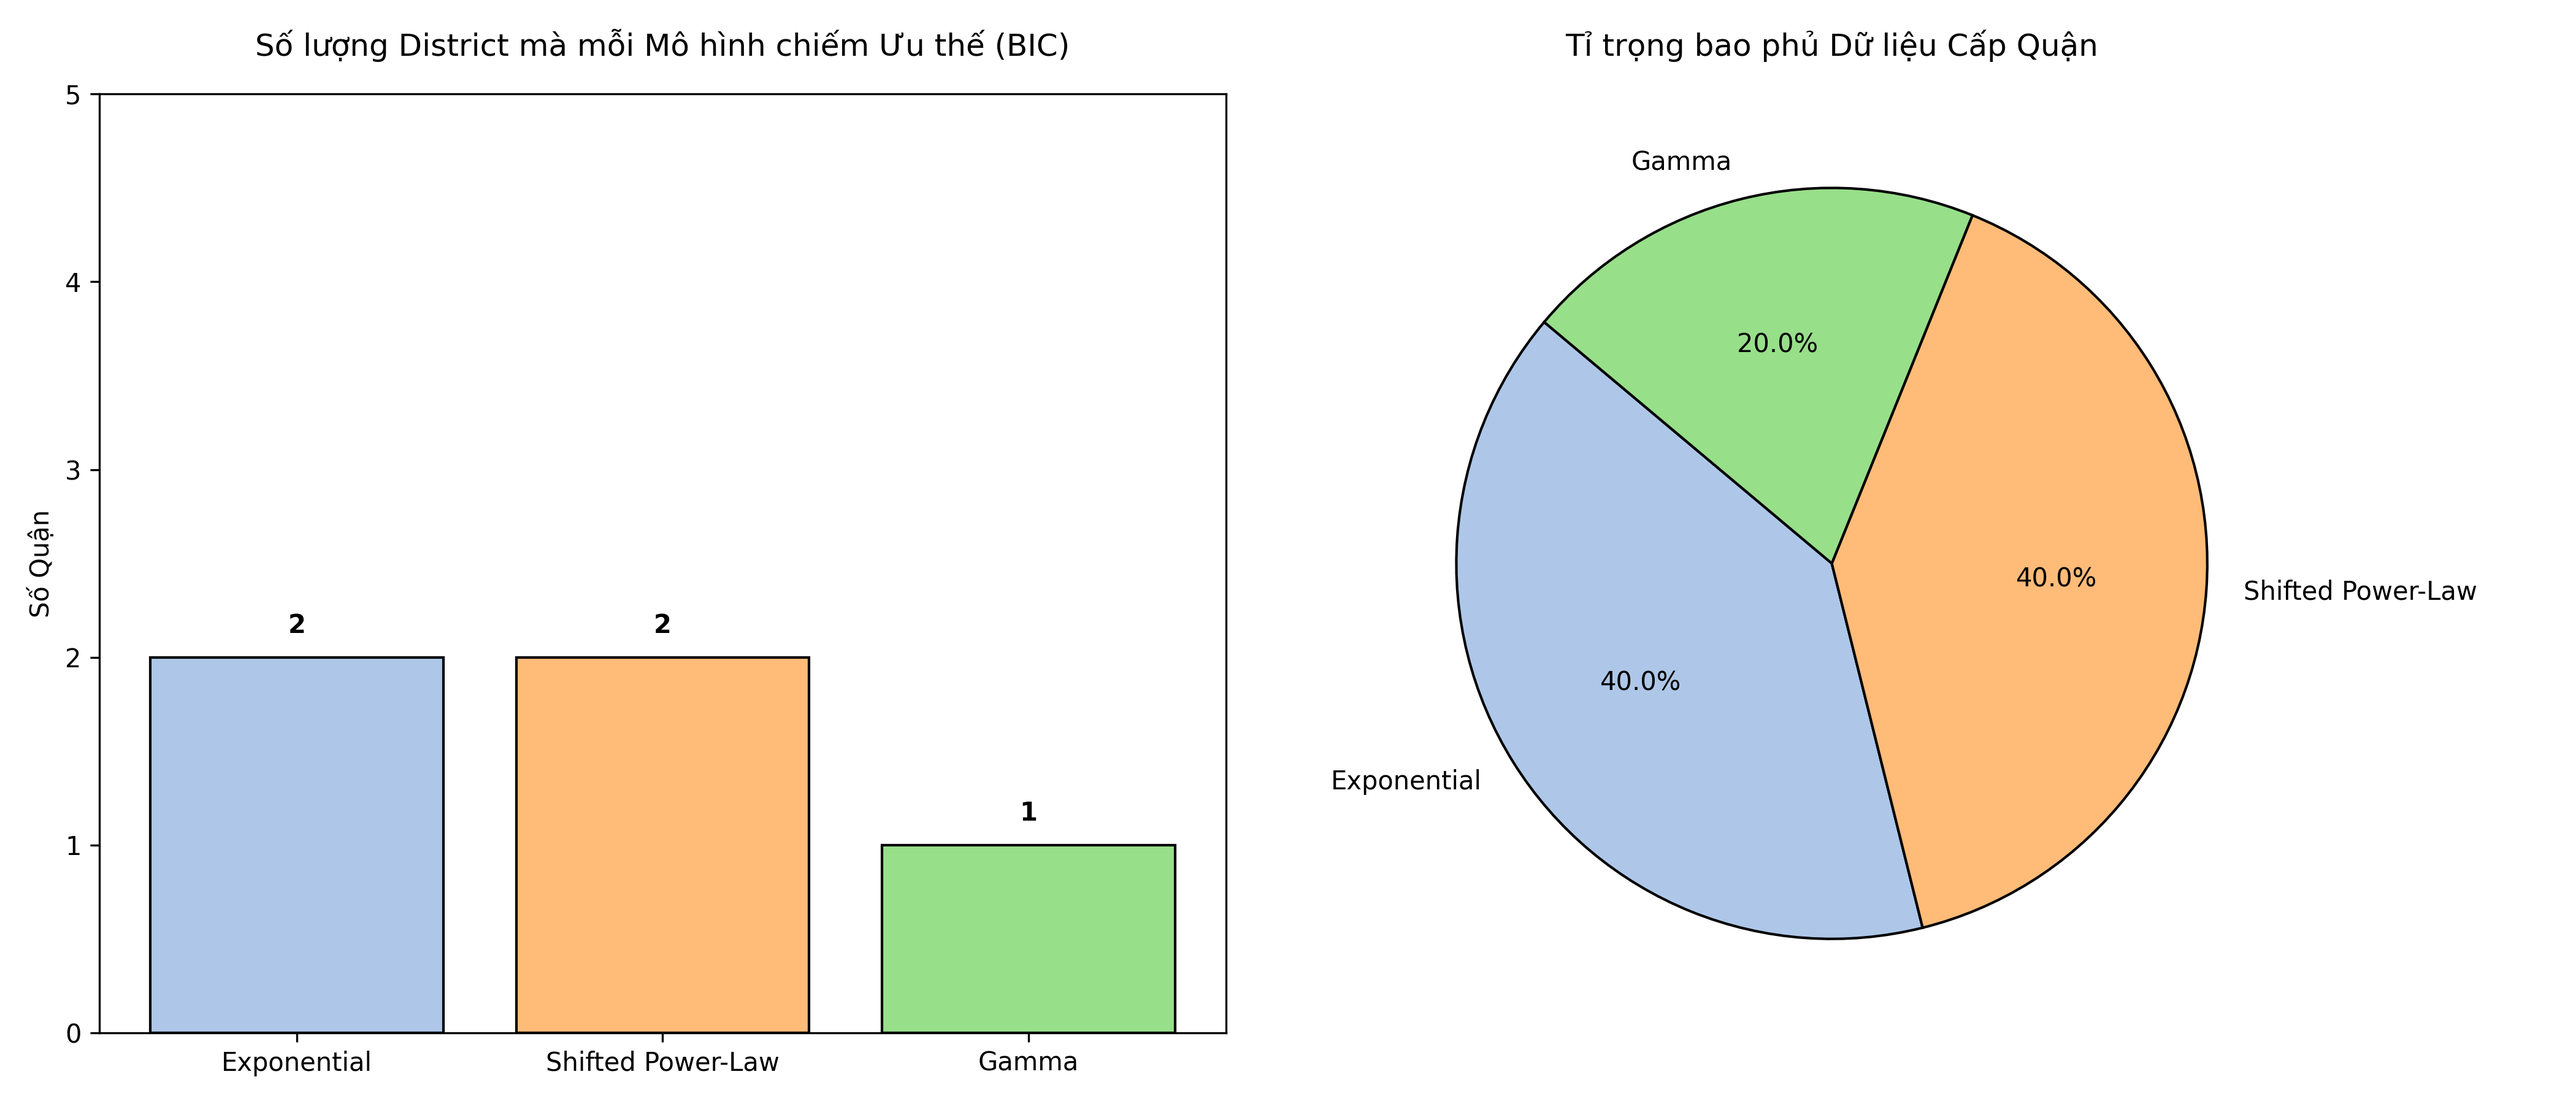
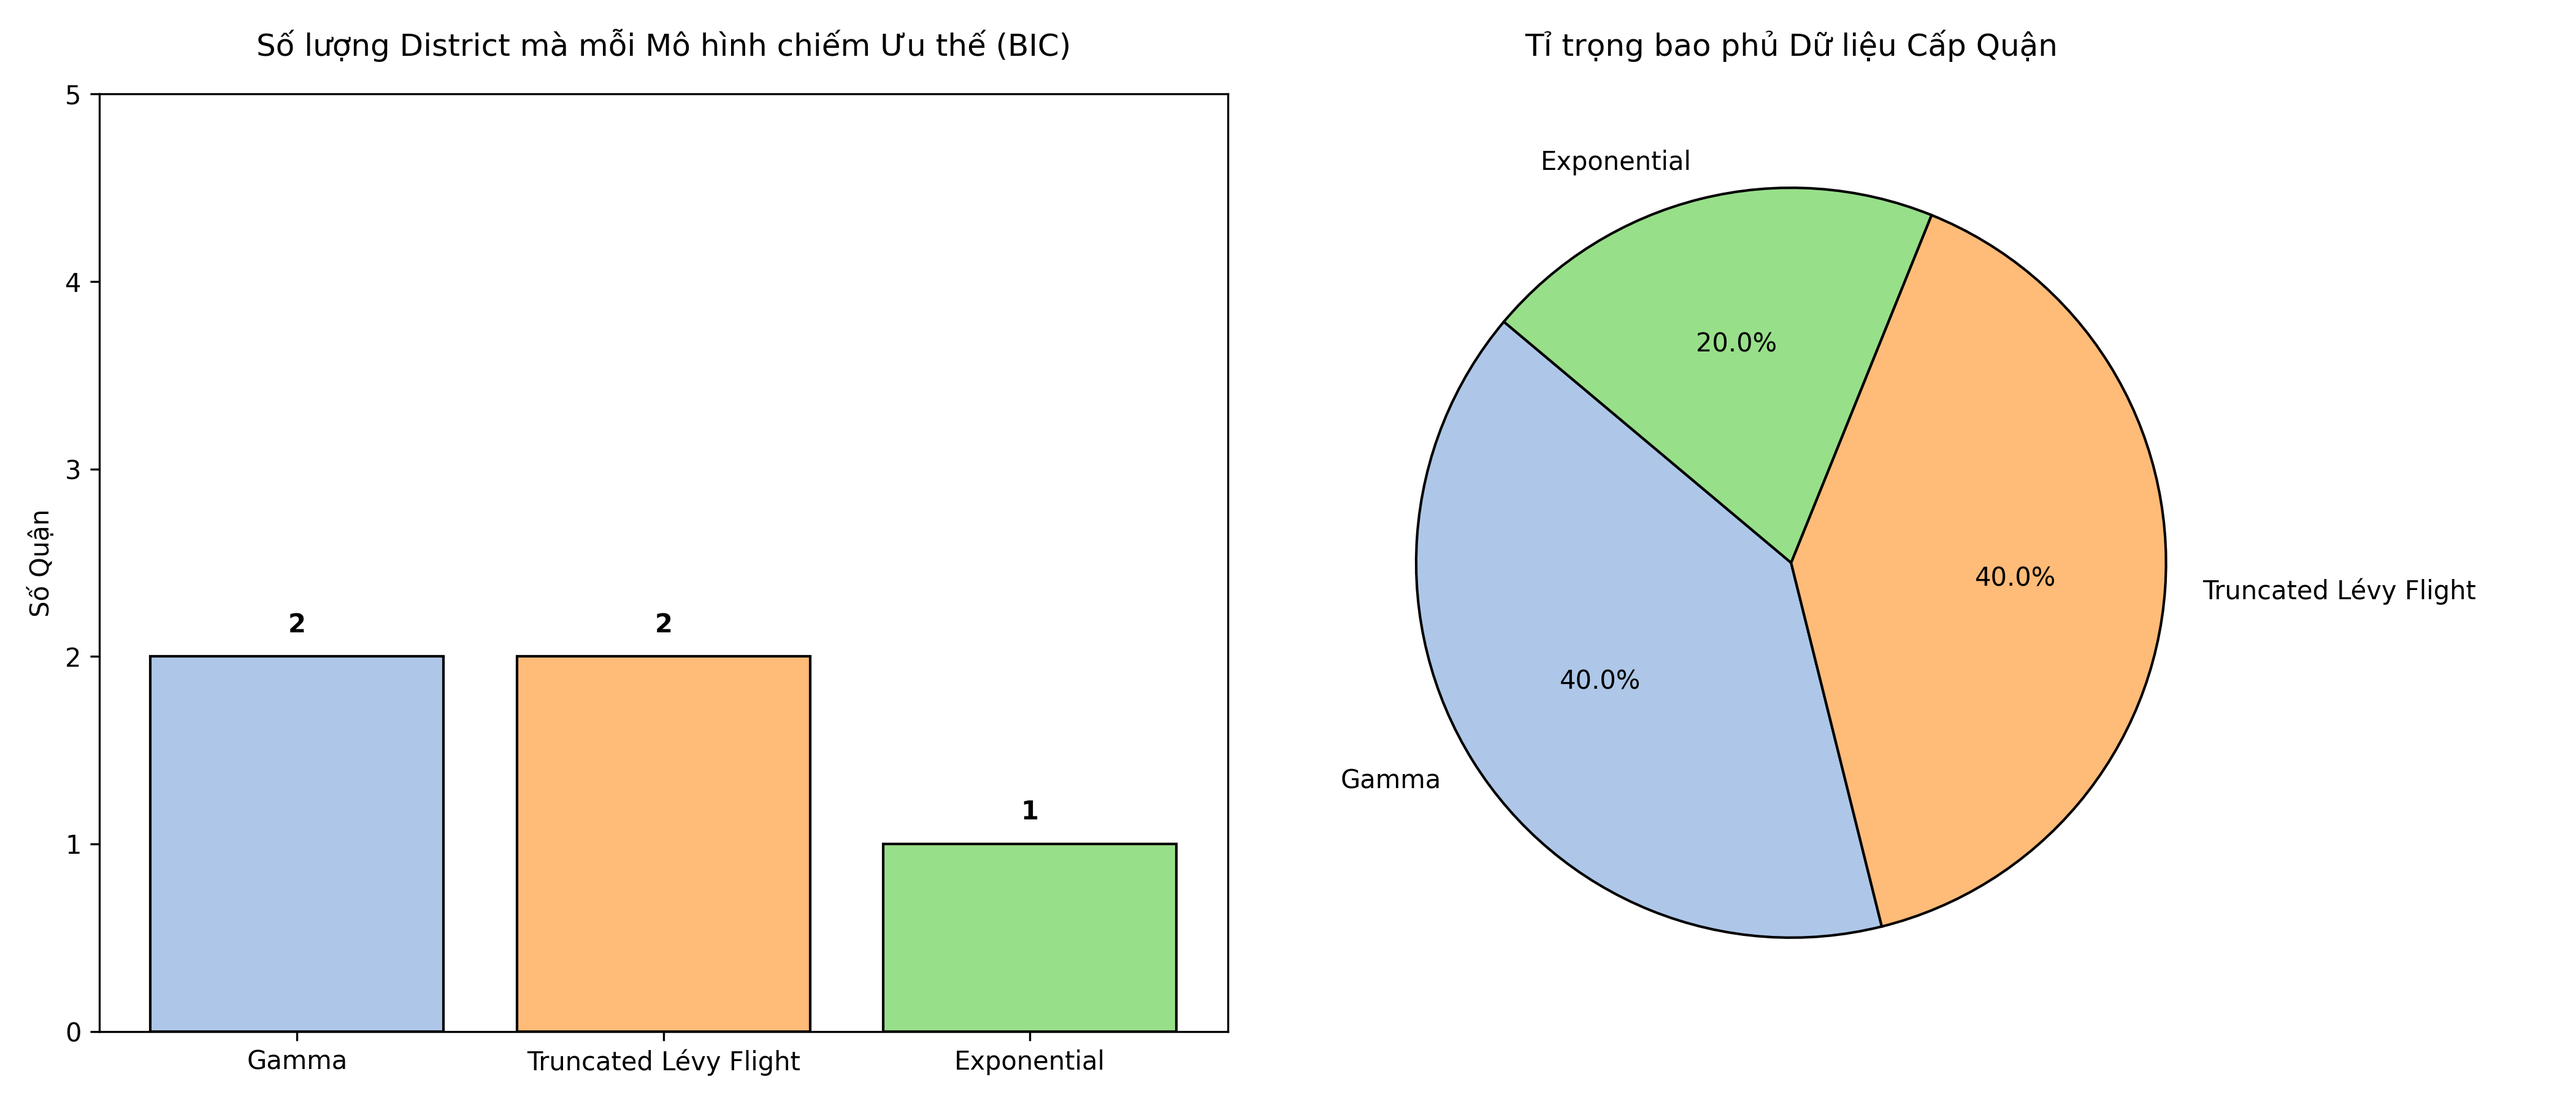
update new method

diff --git a/compare_distribution_formular.py b/compare_distribution_formular.py
@@ -1,6 +1,6 @@
 import pandas as pd
 import numpy as np
-from scipy.optimize import curve_fit
+from scipy.optimize import minimize
 import scipy.stats as stats
 import warnings
 
@@ -71,25 +71,38 @@ for zone, group in df.groupby('ORIGIN_SUBZONE'):
     
     for name, (func, p0, k, bounds) in models.items():
         try:
-            popt, _ = curve_fit(func, x_data, y_prob, p0=p0, bounds=bounds, maxfev=15000)
-            y_fit_raw = func(x_data, *popt)
+            # Objective function for MLE: Negative Log-Likelihood
+            def nll(params):
+                y_raw = func(x_data, *params)
+                # Normalize to get PMF
+                if np.sum(y_raw) <= 0 or np.any(y_raw < 0):
+                    return 1e18 # High penalty for invalid params
+                y_pmf = y_raw / np.sum(y_raw)
+                y_safe = np.clip(y_pmf, 1e-300, 1)
+                return -np.sum(y_counts * np.log(y_safe))
+
+            # Reshape bounds for minimize (list of tuples)
+            bnds = list(zip(bounds[0], bounds[1]))
             
-            if np.any(np.isnan(y_fit_raw)) or np.any(np.isinf(y_fit_raw)):
+            # Initial run with minimize
+            res = minimize(nll, p0, method='L-BFGS-B', bounds=bnds, options={'maxiter': 500, 'ftol': 1e-6})
+            
+            if not res.success:
+                # Retry with Nelder-Mead if L-BFGS-B fails to find a good spot
+                res = minimize(nll, p0, method='Nelder-Mead', bounds=bnds)
+            
+            popt = res.x
+            y_fit_pmf_raw = func(x_data, *popt)
+            y_fit_pmf = y_fit_pmf_raw / np.sum(y_fit_pmf_raw)
+            
+            if np.any(np.isnan(popt)) or np.any(np.isinf(popt)):
                 continue
                 
-            r2 = r2_score_custom(y_prob, y_fit_raw)
-            
-            # PMF Normalization
-            sum_fit = np.sum(y_fit_raw)
-            if sum_fit <= 0: continue
-            y_fit_pmf = y_fit_raw / sum_fit
-            
+            r2 = r2_score_custom(y_prob, y_fit_pmf_raw)
             model_cdf = np.cumsum(y_fit_pmf)
             ks_stat = np.max(np.abs(empirical_cdf - model_cdf))
             
-            # Tránh chia/log bằng 0
-            y_fit_safe = np.clip(y_fit_pmf, 1e-300, 1)
-            log_likelihood = np.sum(y_counts * np.log(y_fit_safe))
+            log_likelihood = -res.fun # Negative of NLL is Log-Likelihood
             
             aic = 2 * k - 2 * log_likelihood
             bic = k * np.log(total_trips) - 2 * log_likelihood

diff --git a/calculate_global_metrics.py b/calculate_global_metrics.py
@@ -1,6 +1,6 @@
 import pandas as pd
 import numpy as np
-from scipy.optimize import curve_fit
+from scipy.optimize import minimize
 
 def run_global_analysis():
     df_trips = pd.read_csv('data_trip_sum.csv')
@@ -16,8 +16,9 @@ def run_global_analysis():
     hist, bin_edges = np.histogram(distances, bins=bins, weights=counts)
     bin_centers = (bin_edges[:-1] + bin_edges[1:]) / 2
     mask = hist > 0
-    x = bin_centers[mask]
-    y = hist[mask] / total_trips
+    x_data = bin_centers[mask]
+    y_counts = hist[mask]
+    y_prob = y_counts / total_trips
     
     def lognormal_dist(r, C, mu, sigma):
         r_safe = np.clip(r, 1e-5, None)
@@ -49,17 +50,30 @@ def run_global_analysis():
     print(f"|---|---|---|---|---|---|")
     for name, (func, p0, k, bounds) in models.items():
         try:
-            popt, _ = curve_fit(func, x, y, p0=p0, bounds=bounds, maxfev=50000)
-            y_fit = func(x, *popt)
-            r2 = 1 - np.sum((y - y_fit)**2) / np.sum((y - np.mean(y))**2)
-            # Log likelihood for BIC
-            y_fit_norm = y_fit / np.sum(y_fit)
-            ll = np.sum((y * total_trips) * np.log(np.clip(y_fit_norm, 1e-300, 1)))
+            # Objective function for MLE: Negative Log-Likelihood
+            def nll(params):
+                y_raw = func(x_data, *params)
+                if np.sum(y_raw) <= 0 or np.any(y_raw < 0):
+                    return 1e18
+                y_pmf = y_raw / np.sum(y_raw)
+                y_safe = np.clip(y_pmf, 1e-300, 1)
+                return -np.sum(y_counts * np.log(y_safe))
+
+            bnds = list(zip(bounds[0], bounds[1]))
+            res = minimize(nll, p0, method='L-BFGS-B', bounds=bnds)
+            
+            popt = res.x
+            y_fit_raw = func(x_data, *popt)
+            y_fit_pmf = y_fit_raw / np.sum(y_fit_raw)
+            
+            r2 = 1 - np.sum((y_prob - y_fit_pmf)**2) / np.sum((y_prob - np.mean(y_prob))**2)
+            ll = -res.fun
             aic = 2 * k - 2 * ll
             bic = k * np.log(total_trips) - 2 * ll
+            
             # KS
-            y_cdf = np.cumsum(y / np.sum(y))
-            fit_cdf = np.cumsum(y_fit_norm)
+            y_cdf = np.cumsum(y_prob)
+            fit_cdf = np.cumsum(y_fit_pmf)
             ks = np.max(np.abs(y_cdf - fit_cdf))
             print(f"| {name} | {r2:.4f} | {ll:,.0f} | {aic:,.0f} | {bic:,.0f} | {ks:.4f} |")
         except Exception as e:

diff --git a/compare_distribution_40groups.py b/compare_distribution_40groups.py
@@ -1,6 +1,6 @@
 import pandas as pd
 import numpy as np
-from scipy.optimize import curve_fit
+from scipy.optimize import minimize
 import scipy.stats as stats
 import matplotlib.pyplot as plt
 import warnings
@@ -76,23 +76,25 @@ for group_id, group_data in df.groupby('group_id'):
     
     for name, (func, p0, k, bounds) in models.items():
         try:
-            popt, _ = curve_fit(func, x_data, y_prob, p0=p0, bounds=bounds, maxfev=15000)
+            def nll(params):
+                y_raw = func(x_data, *params)
+                if np.sum(y_raw) <= 0 or np.any(y_raw < 0): return 1e18
+                y_pmf = y_raw / np.sum(y_raw)
+                return -np.sum(y_counts * np.log(np.clip(y_pmf, 1e-300, 1)))
+
+            bnds = list(zip(bounds[0], bounds[1]))
+            res = minimize(nll, p0, method='L-BFGS-B', bounds=bnds)
+            if not res.success: res = minimize(nll, p0, method='Nelder-Mead', bounds=bnds)
+            
+            popt = res.x
             y_fit_raw = func(x_data, *popt)
+            y_fit_pmf = y_fit_raw / np.sum(y_fit_raw)
             
-            if np.any(np.isnan(y_fit_raw)) or np.any(np.isinf(y_fit_raw)):
-                continue
-                
             r2 = r2_score_custom(y_prob, y_fit_raw)
-            sum_fit = np.sum(y_fit_raw)
-            if sum_fit <= 0: continue
-            y_fit_pmf = y_fit_raw / sum_fit
-            
             model_cdf = np.cumsum(y_fit_pmf)
             ks_stat = np.max(np.abs(empirical_cdf - model_cdf))
             
-            y_fit_safe = np.clip(y_fit_pmf, 1e-300, 1)
-            log_likelihood = np.sum(y_counts * np.log(y_fit_safe))
-            
+            log_likelihood = -res.fun
             aic = 2 * k - 2 * log_likelihood
             bic = k * np.log(total_trips) - 2 * log_likelihood
             
@@ -112,6 +114,7 @@ for group_id, group_data in df.groupby('group_id'):
         
     best_model = min(group_res.keys(), key=lambda m: group_res[m]['BIC'])
     
+    for name, metrics in group_res.items():
         results.append({
             'group_id': group_id,
             'Total_Trips': total_trips,

diff --git a/compare_distribution_formular_district.py b/compare_distribution_formular_district.py
@@ -1,6 +1,6 @@
 import pandas as pd
 import numpy as np
-from scipy.optimize import curve_fit
+from scipy.optimize import minimize
 import scipy.stats as stats
 import matplotlib.pyplot as plt
 import warnings
@@ -76,24 +76,25 @@ for district, group in df.groupby('district_id'):
     
     for name, (func, p0, k, bounds) in models.items():
         try:
-            popt, _ = curve_fit(func, x_data, y_prob, p0=p0, bounds=bounds, maxfev=15000)
+            def nll(params):
+                y_raw = func(x_data, *params)
+                if np.sum(y_raw) <= 0 or np.any(y_raw < 0): return 1e18
+                y_pmf = y_raw / np.sum(y_raw)
+                return -np.sum(y_counts * np.log(np.clip(y_pmf, 1e-300, 1)))
+
+            bnds = list(zip(bounds[0], bounds[1]))
+            res = minimize(nll, p0, method='L-BFGS-B', bounds=bnds)
+            if not res.success: res = minimize(nll, p0, method='Nelder-Mead', bounds=bnds)
+            
+            popt = res.x
             y_fit_raw = func(x_data, *popt)
+            y_fit_pmf = y_fit_raw / np.sum(y_fit_raw)
             
-            if np.any(np.isnan(y_fit_raw)) or np.any(np.isinf(y_fit_raw)):
-                continue
-                
             r2 = r2_score_custom(y_prob, y_fit_raw)
-            
-            sum_fit = np.sum(y_fit_raw)
-            if sum_fit <= 0: continue
-            y_fit_pmf = y_fit_raw / sum_fit
-            
             model_cdf = np.cumsum(y_fit_pmf)
             ks_stat = np.max(np.abs(empirical_cdf - model_cdf))
             
-            y_fit_safe = np.clip(y_fit_pmf, 1e-300, 1)
-            log_likelihood = np.sum(y_counts * np.log(y_fit_safe))
-            
+            log_likelihood = -res.fun
             aic = 2 * k - 2 * log_likelihood
             bic = k * np.log(total_trips) - 2 * log_likelihood
             

diff --git a/compare_fb_all_models.py b/compare_fb_all_models.py
@@ -8,7 +8,7 @@ Output: fb_vs_all_models.csv
 
 import pandas as pd
 import numpy as np
-from scipy.optimize import curve_fit
+from scipy.optimize import minimize
 from scipy.stats import wasserstein_distance
 import warnings
 warnings.filterwarnings('ignore')
@@ -108,8 +108,16 @@ for d_id in districts_list:
 
     for model_name, (func, p0, bounds) in models.items():
         try:
-            popt, _ = curve_fit(func, x_data, y_prob, p0=p0, bounds=bounds, maxfev=15000)
+            def nll(params):
+                y_raw = func(x_data, *params)
+                if np.sum(y_raw) <= 0 or np.any(y_raw < 0): return 1e18
+                y_pmf = y_raw / np.sum(y_raw)
+                return -np.sum(y_counts * np.log(np.clip(y_pmf, 1e-300, 1)))
 
+            # Use Nelder-Mead for very small data sets (like districts)
+            res = minimize(nll, p0, method='Nelder-Mead')
+            popt = res.x
+            
             # Predict on all OD pairs, then bin to FB categories
             raw_pred = func(group['euclidean_distance_km'].values, *popt)
             if np.any(np.isnan(raw_pred)) or np.sum(raw_pred) <= 0:
